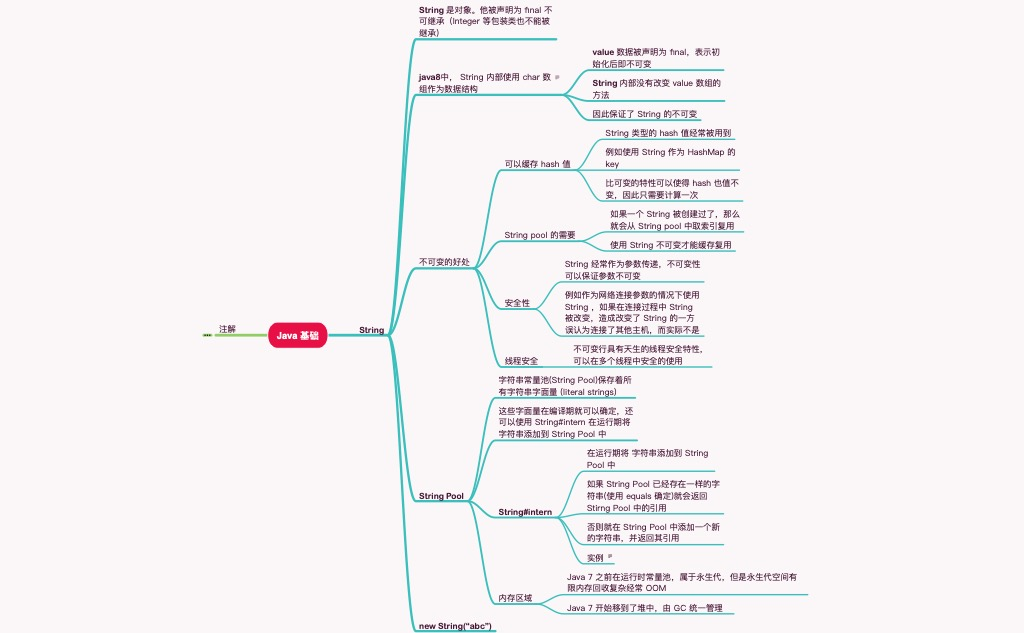
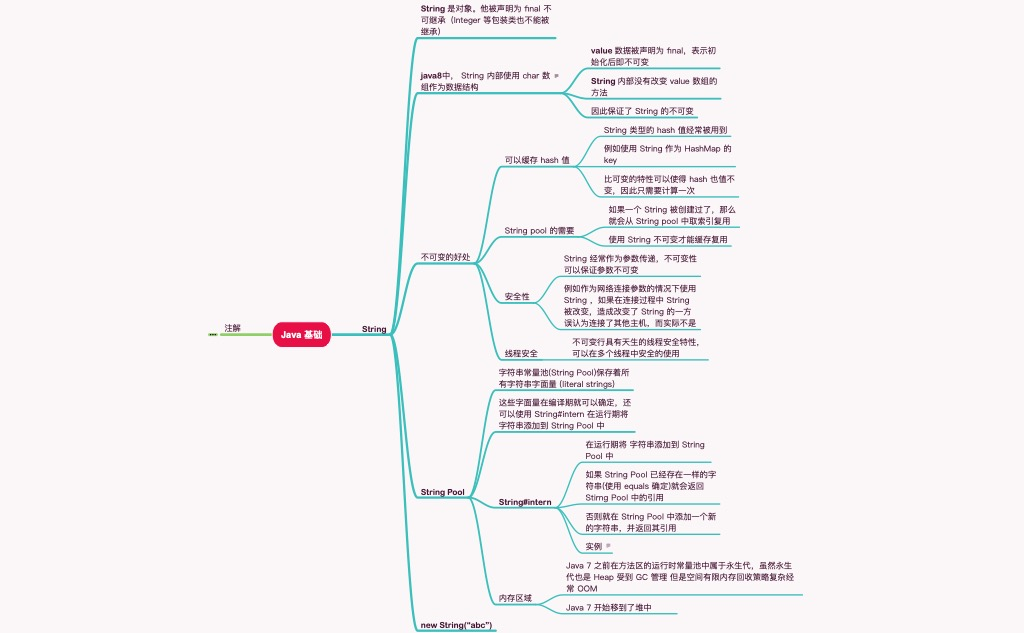
java 基础思维导图

Changed region(s): [[0.1875, 0.0, 0.7812, 1.0], [0.4688, 0.9305, 0.5312, 0.9605]]

diff --git a/性能优化/内存/2. 内存管理 — JVM.md b/性能优化/内存/2. 内存管理 — JVM.md
@@ -202,7 +202,20 @@ Java Heap 的回收依赖自动垃圾回收机制，也就是我们所说的 GC 
 
 在 JDK6 开始 HotSpot 开始逐步转移方法区到 Native 内存中。到了 JDK 8 方法区已经完全被移动到了 Native 内存，这也就是为啥说 JDK 8 开始就没有用永生代了。对于存储方法区的这段内存我们称作：元数据区。
 
-
+> 移除了永久代（PermGen），替换为元空间（Metaspace）；
+>
+> 永久代中的 class metadata 转移到了 native memory（本地内存，而不是虚拟机）；
+>
+> 永久代中的 interned Strings 和 class static variables 转移到了 Java heap；
+>
+> 永久代参数 （PermSize MaxPermSize） -> 元空间参数（MetaspaceSize MaxMetaspaceSize）
+>
+> 
+>
+> 作者：Mr Zeng
+> 链接：https://www.zhihu.com/question/39990490/answer/369690291
+> 来源：知乎
+> 著作权归作者所有。商业转载请联系作者获得授权，非商业转载请注明出处。
 
 在 JVM 规范中对方法区也定义了 OOM 异常。在早期方法区放在堆内实现的时候，很容易模拟出 OOM。后面转移到 Native 内存问题就不容易出现了。
 
